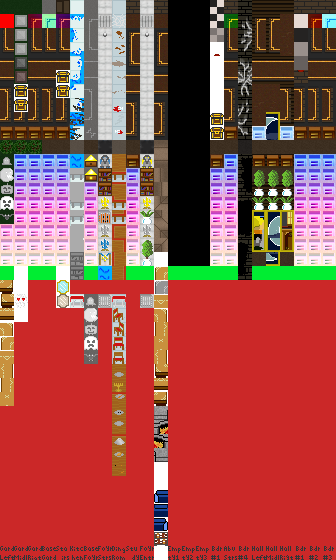
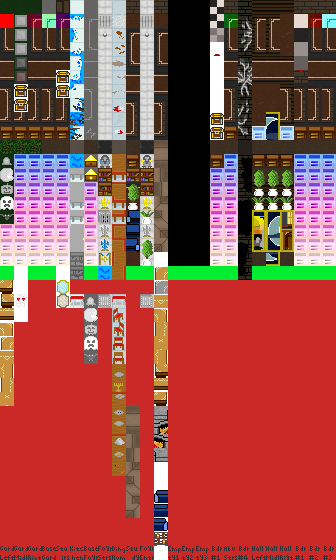
Edited study room. Puzzle to come.

Changed region(s): [[0.3571, 0.6982, 0.4167, 0.9411], [0.3571, 0.2732, 0.4167, 0.4857]]

diff --git a/js/World.js b/js/World.js
@@ -23,19 +23,24 @@ var crackedFloorBroken = false;
 // ******BEGIN MAP EDITOR******
 
 // First Level Areas
+//var levelStudy =
+//[
+//10, 10, 10, 10, 10, 10, 10, 10, 10, 10, 10, 10, 10, 10, 10, 10,
+//10, 11, 11, 11, 11, 11, 11, 11, 11, 11, 11, 11, 11, 11, 11, 10,
+//10, 0, 0, 0, 0, 0, 0, 0, 0, 0, 0, 0, 0, 0, 0, 10,
+//10, 0, 2, 5, 5, 5, 5, 5, 5, 5, 5, 5, 5, 7, 0, 10,
+//10, 0, 3, 1, 1, 1, 1, 1, 1, 1, 1, 1, 1, 8, 0, 10,
+//10, 0, 3, 1, 1, 1, 1, 1, 1, 1, 1, 1, 1, 8, 0, 0,
+//10, 0, 4, 6, 6, 6, 6, 6, 6, 6, 6, 6, 6, 9, 0, 10,
+//10, 0, 0, 0, 0, 0, 0, 0, 0, 0, 0, 0, 0, 0, 0, 10,
+//10, 11, 11, 11, 11, 11, 11, 11, 11, 11, 11, 11, 11, 11, 11, 10,
+//10, 10, 10, 10, 10, 10, 10, 10, 10, 10, 10, 10, 10, 10, 10, 10
+//];
 var levelStudy =
 [
-10, 10, 10, 10, 10, 10, 10, 10, 10, 10, 10, 10, 10, 10, 10, 10,
-10, 11, 11, 11, 11, 11, 11, 11, 11, 11, 11, 11, 11, 11, 11, 10,
-10, 0, 0, 406, 0, 0, 0, 406, 0, 0, 0, 406, 0, 0, 0, 10,
-10, 0, 2, 5, 5, 5, 5, 5, 5, 5, 5, 5, 5, 7, 0, 10,
-10, 0, 3, 1, 1, 1, 1, 1, 1, 1, 1, 1, 1, 8, 0, 10,
-10, 0, 3, 1, 1, 1, 1, 1, 1, 1, 1, 1, 1, 8, 0, 0,
-10, 0, 4, 6, 6, 6, 6, 6, 6, 6, 6, 6, 6, 9, 0, 10,
-10, 0, 0, 0, 0, 406, 0, 0, 0, 406, 0, 0, 0, 406, 0, 10,
-10, 11, 11, 11, 11, 11, 11, 11, 11, 11, 11, 11, 11, 11, 11, 10,
-10, 10, 10, 10, 10, 10, 10, 10, 10, 10, 10, 10, 10, 10, 10, 10
+35, 30, 30, 30, 30, 30, 30, 30, 30, 30, 30, 30, 30, 30, 30, 36, 31, 0, 0, 0, 0, 0, 0, 0, 0, 0, 0, 0, 0, 0, 0, 32, 31, 0, 11, 12, 11, 11, 11, 12, 12, 11, 11, 11, 11, 12, 0, 32, 31, 0, 2, 5, 5, 13, 5, 5, 5, 5, 13, 5, 5, 7, 0, 32, 31, 0, 3, 1, 1, 14, 15, 16, 16, 17, 14, 1, 1, 8, 0, 32, 31, -1, 3, 1, 1, 1, 1, 1, 1, 1, 1, 1, 1, 8, 0, 0, 31, 0, 4, 6, 6, 6, 6, 6, 6, 6, 6, 6, 6, 9, 0, 32, 31, 0, 11, 11, 11, 11, 11, 12, 12, 12, 11, 11, 12, 12, 0, 32, 31, 0, 0, 0, 0, 0, 0, 0, 0, 0, 0, 0, 0, 0, 0, 32, 33, 29, 29, 29, 29, 29, 29, 29, 29, 29, 29, 29, 29, 29, 29, 34
 ];
+
 var levelFoyerEntrance = 
 [
 10,2,0,0,0,0,0,0,0,0,0,0,0,0,2,10,10,12,0,11,0,17,0,0,0,0,17,0,11,0,13,10,10,13,0,0,0,18,0,0,0,0,18,0,0,0,12,10,10,12,0,0,0,0,0,1,1,0,0,0,0,0,13,10,10,12,0,14,0,15,0,0,0,0,15,0,14,0,13,10,0,0,0,0,0,0,0,1,1,0,0,0,0,0,0,201,10,12,0,0,0,15,0,0,0,0,15,0,0,0,13,10,10,13,0,16,0,0,0,0,0,0,0,0,16,0,12,10,10,12,0,0,0,0,0,100,0,300,0,0,0,0,13,10,10,10,10,10,10,10,10,209,10,10,10,10,10,10,10,10

diff --git a/js/RoomCheck.js b/js/RoomCheck.js
@@ -38,7 +38,7 @@ function checkRoomLogic()
     checkGardenMiddle();
     checkFoyerEntrance();
     checkAttic();
-    checkStudy();
+    //checkStudy();
 }
 
 function searchRoomLogic()
